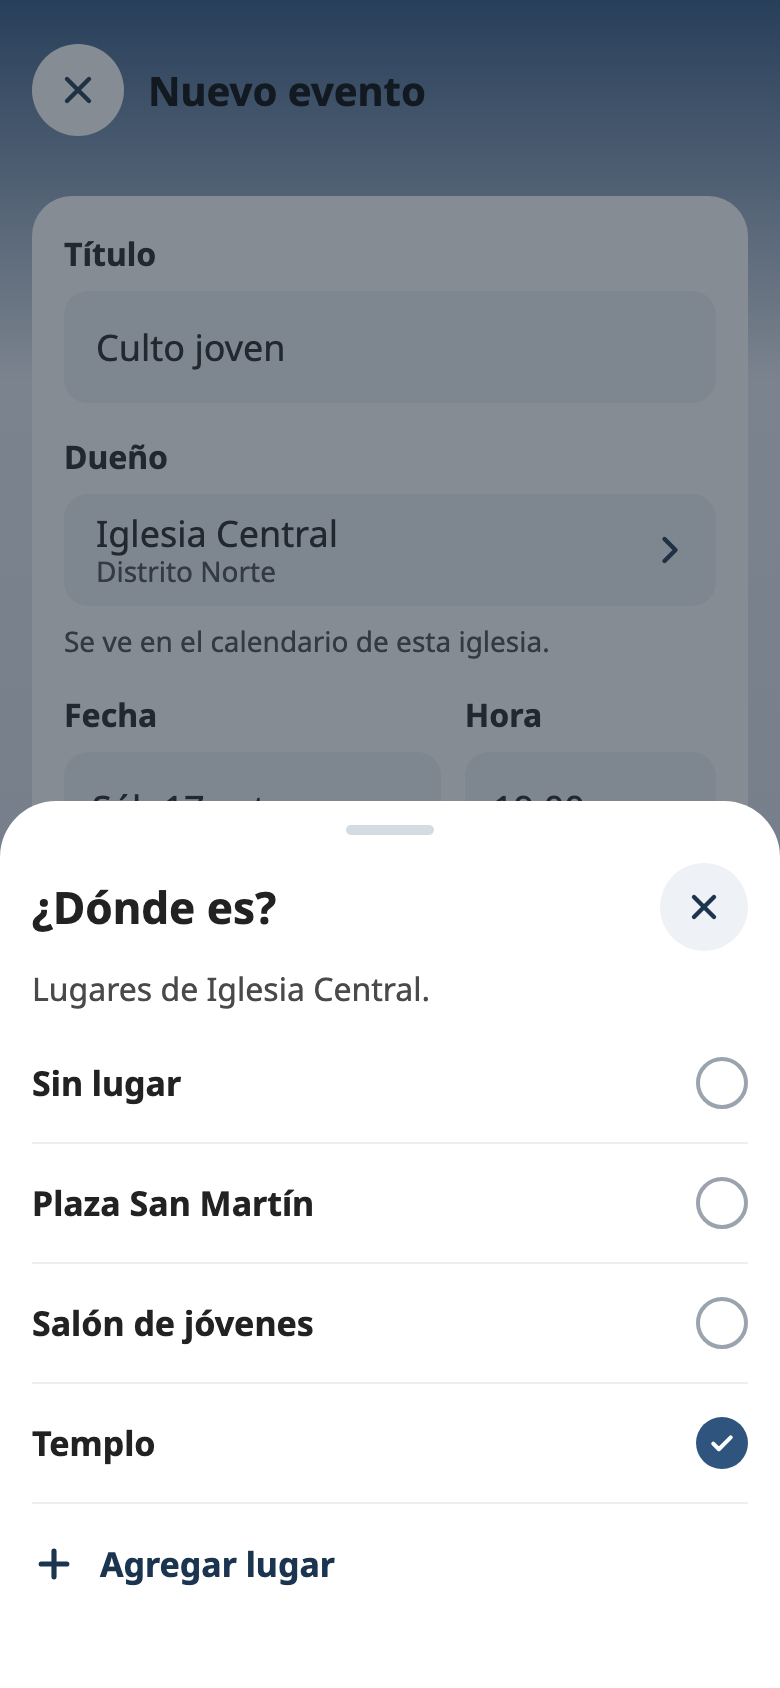
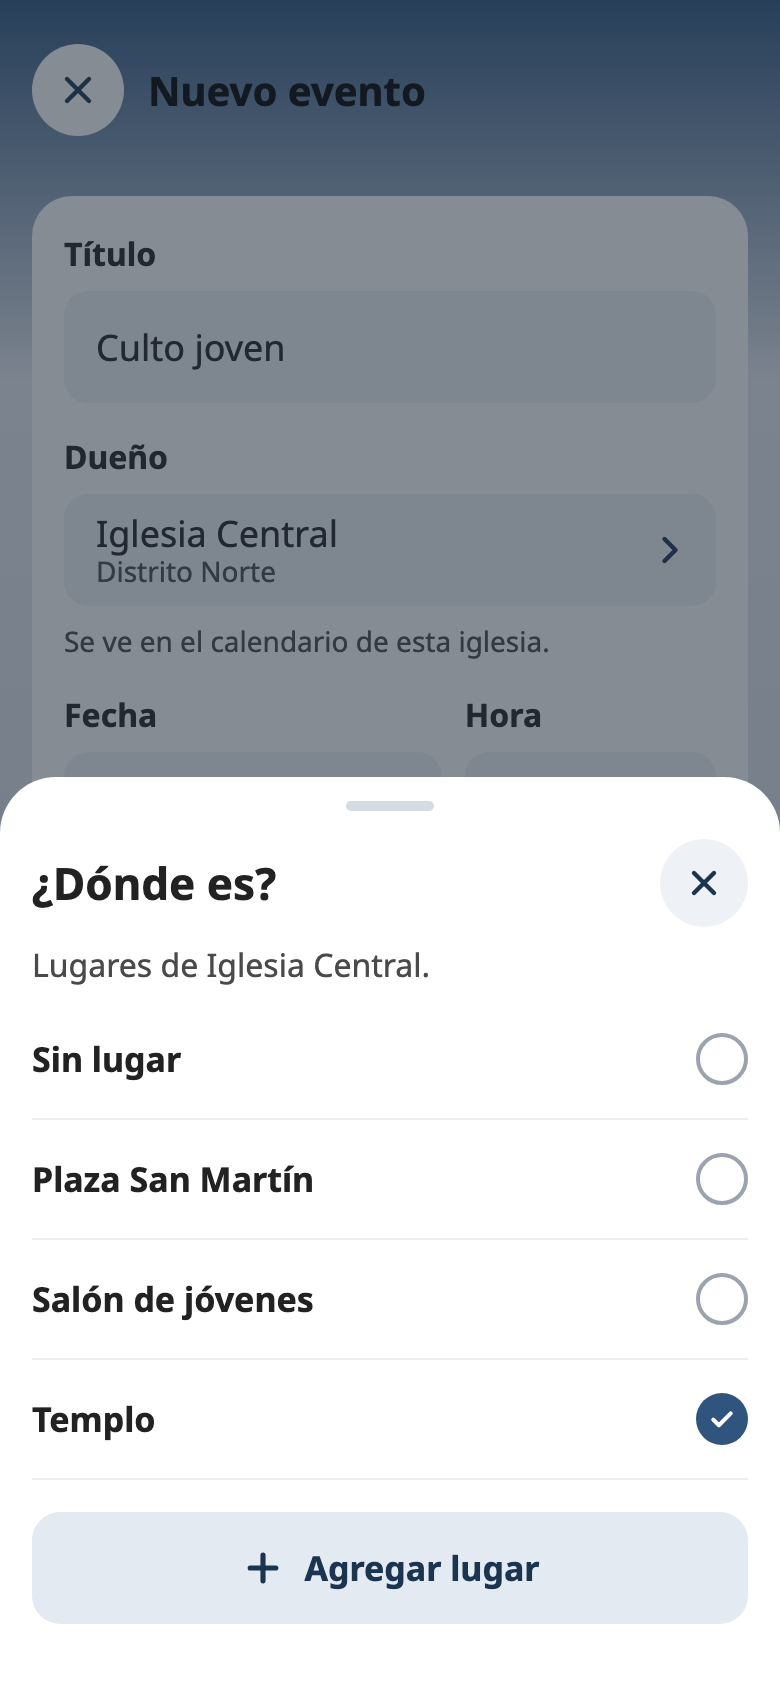
feat(eventos): set "Agregar lugar" apart from the lugares and above the keyboard
"+ Agregar lugar" read as one more lugar of the list. It is now a button
apart from the rows, and the new lugar is written in its own box. The
sheet scrolls to that box once the keyboard is up, so "Guardar lugar"
is never hidden under it.

Refs #129

Changed region(s): [[0.0, 0.4621, 1.0, 0.8009], [0.0308, 0.6161, 0.9846, 0.9858], [0.0308, 0.8318, 0.2154, 0.8626]]

diff --git a/diseno/pantallas/06-crear-evento.html b/diseno/pantallas/06-crear-evento.html
@@ -183,7 +183,7 @@ a{color:#1B3550}a:hover{color:#10233A}
 
   <!-- 6c: the Lugar sheet. Lists the lugares of the chosen dueño, sorted by name, then "+ Agregar lugar".
        "Sin lugar" clears the field. An evento saved before the list keeps its lugar as written text: it shows first, marked "Escrito a mano", until another one is chosen.
-       "+ Agregar lugar" turns into a text field: Guardar saves it for the dueño and leaves it chosen. A name already in the list (ignoring capitals and accents) picks that one instead of repeating it. -->
+       "+ Agregar lugar" is a button apart from the rows, so it does not read as one more lugar. It turns into a text field in its own box: Guardar saves it for the dueño and leaves it chosen. A name already in the list (ignoring capitals and accents) picks that one instead of repeating it. -->
   <sc-if value="{{ hojaLugar }}" hint-placeholder-val="{{ false }}">
   <div style="position: absolute; inset: 0; background: rgba(34, 46, 61, 0.55); display: flex; flex-direction: column; justify-content: flex-end">
     <div role="dialog" aria-labelledby="tHojaLugar" style="background: #FFFFFF; border-radius: 28px 28px 0 0; padding: 12px 16px 32px">
@@ -211,14 +211,14 @@ a{color:#1B3550}a:hover{color:#10233A}
           </button>
         </sc-for>
         <sc-if value="{{ agregando }}" hint-placeholder-val="{{ false }}">
-          <div style="display: flex; flex-direction: column; gap: 10px; padding: 14px 0 4px">
+          <div style="display: flex; flex-direction: column; gap: 10px; margin-top: 16px; padding: 16px; border-radius: 16px; background: #FFFFFF; box-shadow: inset 0 0 0 1px #D5DBE3">
             <label for="nuevoLugar" style="font-size: 16px; font-weight: 700">Nombre del lugar</label>
             <input id="nuevoLugar" type="text" value="{{ nuevo }}" onChange="{{ escribirNuevo }}" placeholder="Por ejemplo: Salón de jóvenes" style="height: 56px; box-sizing: border-box; border: 0; border-radius: 12px; background: #EEF1F5; padding: 0 16px; font-size: 18px; font-family: inherit; color: #222222">
             <button type="button" onClick="{{ guardarNuevo }}" style="min-height: 56px; border-radius: 14px; border: 0; background: #1B3550; color: #FFFFFF; font-family: inherit; font-size: 18px; font-weight: 700; cursor: pointer">Guardar lugar</button>
           </div>
         </sc-if>
         <sc-if value="{{ noAgregando }}" hint-placeholder-val="{{ true }}">
-          <button type="button" onClick="{{ empezarAgregar }}" style="display: flex; align-items: center; gap: 12px; min-height: 60px; padding: 8px 0; border: 0; background: transparent; font-family: inherit; text-align: left; cursor: pointer; color: #1B3550">
+          <button type="button" onClick="{{ empezarAgregar }}" style="display: flex; align-items: center; justify-content: center; gap: 10px; min-height: 56px; margin-top: 16px; border-radius: 14px; border: 0; background: #E3EAF2; font-family: inherit; cursor: pointer; color: #1B3550">
             <svg width="22" height="22" viewBox="0 0 24 24" fill="none" stroke="currentColor" stroke-width="2.8" stroke-linecap="round"><path d="M12 5v14M5 12h14"></path></svg>
             <span style="font-size: 17px; font-weight: 700">Agregar lugar</span>
           </button>

diff --git a/src/features/eventos/interfaz/HojaInferior.tsx b/src/features/eventos/interfaz/HojaInferior.tsx
@@ -1,5 +1,6 @@
-import type { ReactNode } from 'react';
+import { useEffect, useRef, type ReactNode } from 'react';
 import {
+  Keyboard,
   KeyboardAvoidingView,
   Modal,
   Platform,
@@ -41,12 +42,39 @@ type HojaInferiorProps = {
   visible: boolean;
   title: string;
   intro?: string;
+  /**
+   * Keeps the end of the content in view, also when the keyboard makes the
+   * sheet smaller: a field and its button at the end stay above the keyboard.
+   */
+  scrollToEnd?: boolean;
   onClose: () => void;
   children: ReactNode;
 };
 
 /** A sheet that rises from the bottom over a dark scrim, with a title and a close button. */
-export function HojaInferior({ visible, title, intro, onClose, children }: HojaInferiorProps) {
+export function HojaInferior({
+  visible,
+  title,
+  intro,
+  scrollToEnd = false,
+  onClose,
+  children,
+}: HojaInferiorProps) {
+  const scrollRef = useRef<ScrollView>(null);
+  const keepEndInView = () => {
+    if (scrollToEnd) scrollRef.current?.scrollToEnd({ animated: true });
+  };
+
+  // The keyboard shrinks the sheet after the content was laid out: scroll again
+  // once it is up.
+  useEffect(() => {
+    if (!scrollToEnd) return;
+    const subscription = Keyboard.addListener('keyboardDidShow', () =>
+      scrollRef.current?.scrollToEnd({ animated: true }),
+    );
+    return () => subscription.remove();
+  }, [scrollToEnd]);
+
   return (
     <Modal
       visible={visible}
@@ -94,7 +122,14 @@ export function HojaInferior({ visible, title, intro, onClose, children }: HojaI
               {intro}
             </AppText>
           )}
-          <ScrollView keyboardShouldPersistTaps="handled">{children}</ScrollView>
+          <ScrollView
+            ref={scrollRef}
+            keyboardShouldPersistTaps="handled"
+            onContentSizeChange={keepEndInView}
+            onLayout={keepEndInView}
+          >
+            {children}
+          </ScrollView>
         </View>
       </KeyboardAvoidingView>
     </Modal>

diff --git a/src/features/eventos/interfaz/HojaDeLugar.tsx b/src/features/eventos/interfaz/HojaDeLugar.tsx
@@ -28,11 +28,19 @@ const ROW_MIN_HEIGHT = 60;
 const ROW_PADDING_VERTICAL = 8;
 const ROW_GAP = 14;
 const ROW_TEXTS_GAP = 1;
-const ADD_GAP = 12;
+// "+ Agregar lugar" is a button apart from the rows, so it does not read as one
+// more lugar (capture 6c); the new lugar is written in its own box (6d).
+const ADD_MARGIN_TOP = 16;
+const ADD_MIN_HEIGHT = 56;
+const ADD_GAP = 10;
+const ADD_RADIUS = 14;
 const ADD_ICON_SIZE = 22;
 const ADD_STROKE_WIDTH = 2.8;
-const NEW_PADDING_TOP = 14;
+const NEW_MARGIN_TOP = 16;
+const NEW_PADDING = 16;
 const NEW_GAP = 10;
+const NEW_RADIUS = 16;
+const NEW_BORDER_COLOR = '#D5DBE3';
 // The mockups draw no pressed state; the same value as `Button`.
 const PRESSED_OPACITY = 0.85;
 
@@ -130,6 +138,8 @@ export function HojaDeLugar({
       visible={visible}
       title="¿Dónde es?"
       intro={`Lugares de ${nombreDelDuenio}.`}
+      // The field and "Guardar lugar" stay above the keyboard.
+      scrollToEnd={agregando}
       onClose={close}
     >
       <View accessibilityRole="radiogroup">
@@ -227,12 +237,19 @@ const styles = StyleSheet.create({
   add: {
     flexDirection: 'row',
     alignItems: 'center',
+    justifyContent: 'center',
     gap: ADD_GAP,
-    minHeight: ROW_MIN_HEIGHT,
-    paddingVertical: ROW_PADDING_VERTICAL,
+    minHeight: ADD_MIN_HEIGHT,
+    marginTop: ADD_MARGIN_TOP,
+    borderRadius: ADD_RADIUS,
+    backgroundColor: colors.azulSuave,
   },
   nuevo: {
     gap: NEW_GAP,
-    paddingTop: NEW_PADDING_TOP,
+    marginTop: NEW_MARGIN_TOP,
+    padding: NEW_PADDING,
+    borderRadius: NEW_RADIUS,
+    borderWidth: 1,
+    borderColor: NEW_BORDER_COLOR,
   },
 });
